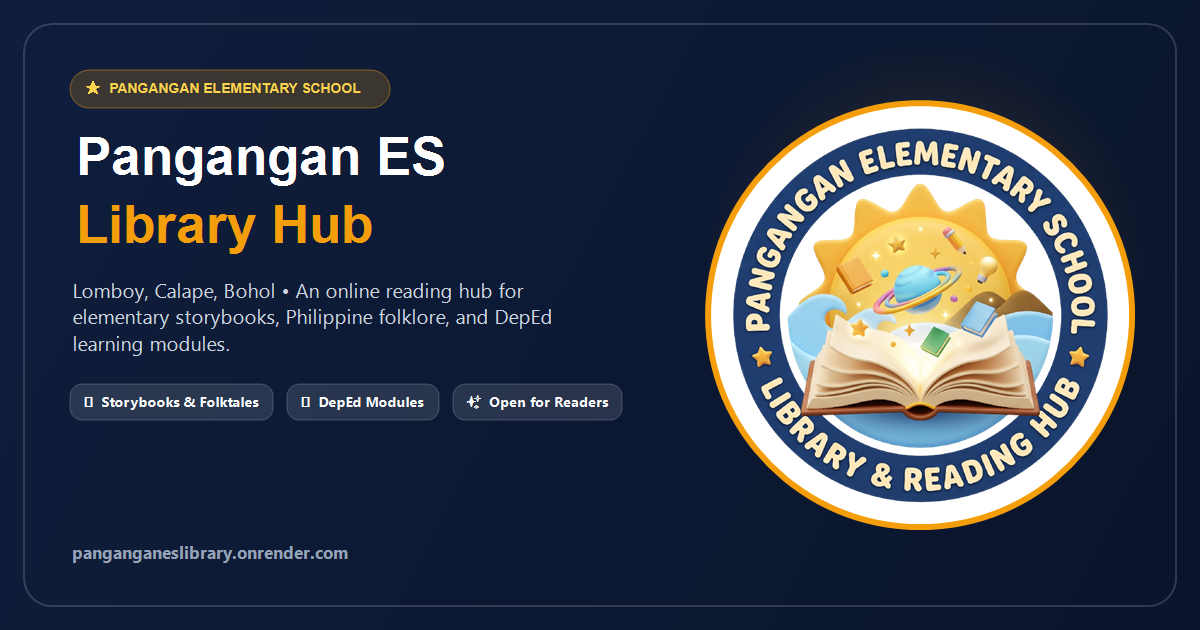
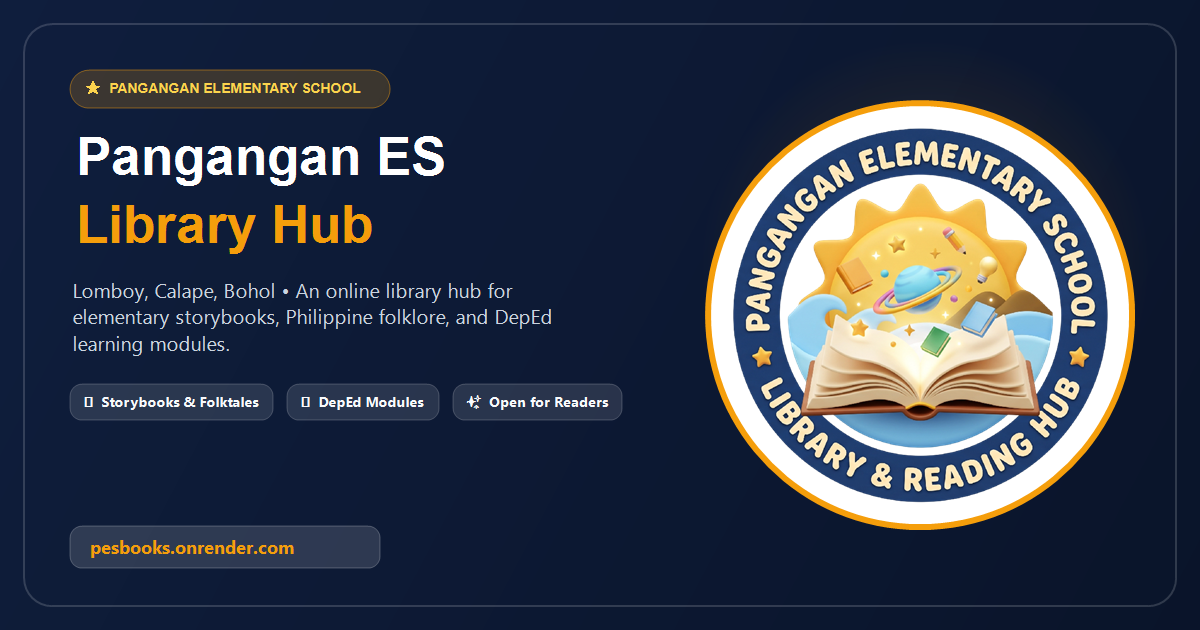
edited the description

Changed region(s): [[0.0308, 0.8143, 0.3392, 0.9048], [0.3083, 0.4524, 0.4317, 0.4825]]

diff --git a/src/pages/HomePage.tsx b/src/pages/HomePage.tsx
@@ -285,7 +285,7 @@ export default function HomePage() {
 
               <ScrollReveal delay={0.12}>
                 <p className="text-base sm:text-lg text-ink-700 max-w-2xl mx-auto lg:mx-0 leading-relaxed font-sans">
-                  Welcome to our school’s reading hub. Explore storybooks, science discoveries, and local Philippine fables curated for Pangangan elementary learners.
+                  Welcome to our school’s library hub. Explore storybooks, science discoveries, and local Philippine fables curated for Pangangan elementary learners.
                 </p>
               </ScrollReveal>
 
